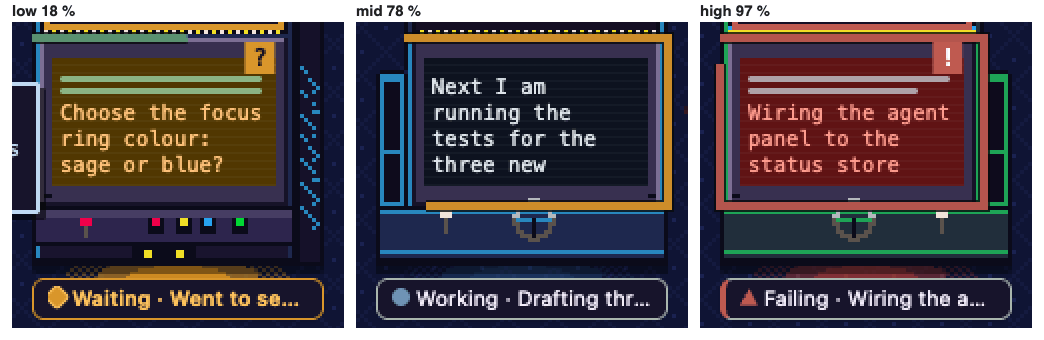
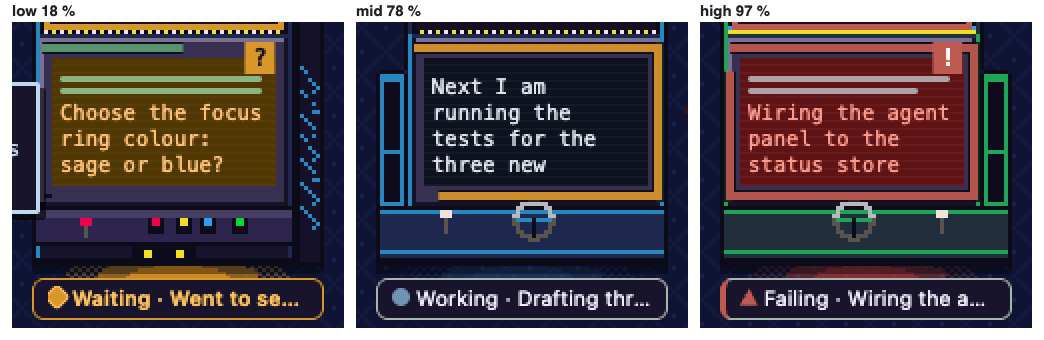
Real office context line: the arcade line fits the screen's frame band, inside the cabinet body, clear of the marquee and the control strip (review of #1299)

Changed region(s): [[0.6743, 0.0882, 0.9502, 0.6471], [0.3678, 0.0882, 0.6437, 0.6471], [0.0307, 0.0882, 0.1839, 0.1765]]

diff --git a/scripts/check-097-ctx-frame.js b/scripts/check-097-ctx-frame.js
@@ -67,11 +67,11 @@ module.exports = async (ctx) => {
     const rows = await js(`(()=>{const tok=n=>{const e=document.createElement('i');e.style.color='var('+n+')';document.body.appendChild(e);const c=getComputedStyle(e).color;e.remove();return c;};
       const T={ok:tok('--green'),warn:tok('--amber'),high:tok('--red')},R=e=>{const r=e.getBoundingClientRect();return [r.left,r.top,r.right,r.bottom]};
       return [...document.querySelectorAll('#stage .ro-screen[data-for]')].map(sc=>{const k=sc.dataset.for,sv=sc.querySelector(':scope > .ro-ctx'),r=sv&&sv.lastChild,kl=sv&&sv.firstChild,pl=document.querySelector('#stage .ro-plate[data-id='+JSON.stringify(k)+']'),
-        gl=sc.querySelector('.ro-glass'),scb=R(sc),inner=[...sc.querySelectorAll('.ro-glass, .ro-bezel')].map(e=>getComputedStyle(e).backgroundColor),txt=[...document.querySelectorAll('#stage .ro-stext[data-for='+JSON.stringify(k)+'] :is(.ro-sl,.ro-bars i)')].map(e=>getComputedStyle(e).color+'|'+getComputedStyle(e).backgroundColor),tx=document.querySelector('#stage .ro-stext[data-for='+JSON.stringify(k)+']'),cs=r&&getComputedStyle(r),shown=!!sv&&getComputedStyle(sv).display!=='none';
+        gl=sc.querySelector('.ro-glass'),scb=R(sc),cab=(e=>e?R(e):null)(document.querySelector('#stage .ro-cab[data-for='+JSON.stringify(k)+']')),mq=(e=>e?R(e):null)(document.querySelector('#stage .ro-marquee[data-for='+JSON.stringify(k)+']')),inner=[...sc.querySelectorAll('.ro-glass, .ro-bezel')].map(e=>getComputedStyle(e).backgroundColor),txt=[...document.querySelectorAll('#stage .ro-stext[data-for='+JSON.stringify(k)+'] :is(.ro-sl,.ro-bars i)')].map(e=>getComputedStyle(e).color+'|'+getComputedStyle(e).backgroundColor),tx=document.querySelector('#stage .ro-stext[data-for='+JSON.stringify(k)+']'),cs=r&&getComputedStyle(r),shown=!!sv&&getComputedStyle(sv).display!=='none';
         let ring=null;if(shown){const x=parseFloat(cs.x),y=parseFloat(cs.y),W=parseFloat(cs.width),Hh=parseFloat(cs.height),s=parseFloat(cs.strokeWidth),b=sv.getBoundingClientRect();
           ring={out:[b.left+x-s/2,b.top+y-s/2,b.left+x+W+s/2,b.top+y+Hh+s/2],inn:[b.left+x+s/2,b.top+y+s/2,b.left+x+W-s/2,b.top+y+Hh-s/2],sw:s,per:Math.round(2*(W+Hh)),len:r.getTotalLength?Math.round(r.getTotalLength()):0};}
         return {k,lounge:sc.classList.contains('ro-lmon'),has:!!sv,shown,lv:sv?sv.dataset.lv||'':'',dash:r?r.getAttribute('stroke-dasharray')||'':'',stroke:cs?cs.stroke:'',hidden:sv?sv.getAttribute('aria-hidden'):'',inGlass:!!(gl&&gl.querySelector('.ro-ctx')),
-          label:pl?pl.getAttribute('aria-label'):'',glass:R(gl),scb,inner,txt,text:tx?R(tx):null,ring,anim:r?r.getAnimations().length:0,ck:kl?{dash:kl.getAttribute('stroke-dasharray')||'',w:parseFloat(getComputedStyle(kl).strokeWidth),c:getComputedStyle(kl).stroke}:null,trans:cs?cs.transitionDuration:'',T};});})()`);
+          label:pl?pl.getAttribute('aria-label'):'',glass:R(gl),scb,cab,mq,inner,txt,text:tx?R(tx):null,ring,anim:r?r.getAnimations().length:0,ck:kl?{dash:kl.getAttribute('stroke-dasharray')||'',w:parseFloat(getComputedStyle(kl).strokeWidth),c:getComputedStyle(kl).stroke}:null,trans:cs?cs.transitionDuration:'',T};});})()`);
     const byId = new Map(rows.map((r) => [r.k, r]));
     const desks = rows.filter((r) => !r.lounge);
     assert.ok(desks.length >= 12, `${tag}: desks with a monitor (${desks.length})`);
@@ -101,8 +101,14 @@ module.exports = async (ctx) => {
       assert.ok(r.ring.sw >= 4, `${tag}: ${id}: the line is at least 4 px (${r.ring.sw})`);
       assert.ok(r.ck && r.ck.dash === r.dash && r.ck.w >= r.ring.sw + 2 && Math.max(...r.ck.c.match(/\d+/g).slice(0, 3).map(Number)) < 40, `${tag}: ${id}: a dark keyline at least 2 px wider lies under the line with the same dash (${JSON.stringify(r.ck)})`);
       if (world === 'arcade') {
-        /* the arcade's line lies on the cabinet's outer frame: the whole screen box (bezel, glass, text) is inside the line's inner edge, and no band colour is a colour used in the screen */
-        assert.ok(inside(r.scb, r.ring.inn), `${tag}: ${id}: the arcade line lies outside the whole screen (screen ${r.scb.map(Math.round)} ring inside ${r.ring.inn.map(Math.round)})`);
+        /* the arcade's line lies in the screen's frame band: its widest part (the keyline) is inside the screen box, which is inside the cabinet's body, clear of the marquee
+           (above) and of the control strip (below the screen box); the glass with its text is inside the line's inner edge; no band colour is a colour used inside the screen */
+        const rc = [(r.ring.out[0] + r.ring.inn[0]) / 2, (r.ring.out[1] + r.ring.inn[1]) / 2, (r.ring.out[2] + r.ring.inn[2]) / 2, (r.ring.out[3] + r.ring.inn[3]) / 2], kh = r.ck.w / 2;
+        const kout = [rc[0] - kh, rc[1] - kh, rc[2] + kh, rc[3] + kh], within = (b, a) => b[0] >= a[0] - 0.6 && b[1] >= a[1] - 0.6 && b[2] <= a[2] + 0.6 && b[3] <= a[3] + 0.6;
+        assert.ok(r.cab && within(kout, r.cab), `${tag}: ${id}: the arcade line is inside the cabinet's body (${kout.map(Math.round)} vs ${r.cab && r.cab.map(Math.round)})`);
+        assert.ok(within(kout, r.scb), `${tag}: ${id}: the arcade line is inside the screen's frame band, so above the control strip (${kout.map(Math.round)} vs screen ${r.scb.map(Math.round)})`);
+        assert.ok(!r.mq || kout[1] >= r.mq[3] - 0.6, `${tag}: ${id}: the arcade line is under the marquee (${kout[1]} vs ${r.mq && r.mq[3]})`);
+        assert.ok(inside(r.glass, r.ring.inn) && (!r.text || inside(r.text, r.ring.inn)), `${tag}: ${id}: the glass and its text are inside the arcade line's inner edge`);
         const used = new Set([...r.inner, ...r.txt.flatMap((x) => x.split('|'))]);
         assert.ok(!used.has(r.stroke), `${tag}: ${id}: the arcade band colour ${r.stroke} is not a colour used inside the screen`);
       }

diff --git a/src/renderer/realoffice/worlds/retro/world.css b/src/renderer/realoffice/worlds/retro/world.css
@@ -81,6 +81,6 @@
 .ro[data-world="retro"] .ro-plate.lounge .ro-l1{display:block;flex:none;max-width:55%;overflow:hidden;text-overflow:ellipsis;white-space:nowrap}
 .ro[data-world="retro"] .ro-plate.lounge .ro-role{display:none}
 .ro[data-world="retro"] .ro-plate.lounge .ro-l2{display:block;flex:1 1 auto;min-width:0;-webkit-line-clamp:unset}
-/* spec 097 FR-324 (review of #1297): the context line lies on the cabinet's own outer frame, just outside the screen box (the lavender bezel and the glass with its text bars are all inside it), never inside the screen where a green fill read as a third text bar; the svg is the whole screen box, the rect grows by one grid pixel each side */
-.ro[data-world="retro"] .ro-ctx rect{x:calc(-1px*var(--ro-g));y:calc(-1px*var(--ro-g));width:calc(var(--ro-cw,0px) + 2px*var(--ro-g));height:calc(var(--ro-ch,0px) + 2px*var(--ro-g));stroke-width:max(4px,calc(2px*var(--ro-g)))}
+/* spec 097 FR-324 (review of #1299): the arcade's line lies in the screen's own frame band, the 4 grid-pixel border between the cabinet body and the glass (the svg is that whole screen box): the line is 2 grid pixels (4 px at g=2) in the band's outer half and its keyline one px wider each side, so every pixel of both stays inside the band: inside the cabinet's body, under the marquee, above the control strip, and clear of the glass and its text bars (the band's inner half stays bare) */
+.ro[data-world="retro"] .ro-ctx rect{x:calc(1.5px*var(--ro-g));y:calc(1.5px*var(--ro-g));width:calc(var(--ro-cw,0px) - 3px*var(--ro-g));height:calc(var(--ro-ch,0px) - 3px*var(--ro-g));stroke-width:max(4px,calc(2px*var(--ro-g)))}
 .ro[data-world="retro"] .ro-ctx .ro-ck{stroke-width:calc(max(4px,2px*var(--ro-g)) + 2px)}

diff --git a/specs/097-real-office/spec.md b/specs/097-real-office/spec.md
@@ -1106,7 +1106,7 @@ Found in the security review of #1272, not caused by it. A tool name is chosen b
 
 - **FR-322** **A line round the frame.** In every desk's monitor frame (not the lounge's small monitors, which show no text, FR-247) a thin line fills clockwise from the top-left corner along the frame as the context fills: its length is the share of the frame's outline, so 50 % reaches the bottom-right corner and 100 % closes the outline. It lies on or beside the frame, never on the glass: it does not change the screen tint (FR-236), does not cover screen text, and is not clipped by the glass. An **unknown** context (including a window waiting for the next message) draws **no** line and no empty track, so it never reads as 0 %. A known 0 % draws no length either. Static: no animation, nothing changes under reduced motion or with Motion off.
 - **FR-323** **Band colours.** The line's colour is the band's: `ok` green (`var(--green)`), `warn` amber (`var(--amber)`), `high` red (`var(--red)`), the tokens the chat header's ring uses; theme tokens only, no literal colour in the line's rule. Colour is not the only cue: the length and the plate's accessible name (FR-325) say the same.
-- **FR-324** **Worlds.** Photo office and cave: the line is on the monitor's frame (Photo: the bezel; cave: the outer edge of the stone frame), 4 px, with a dark keyline 1 px wider each side under it (the same dash, a second `rect` made with the first), so it reads at 1x beside 10.5 px text and a red line round a red error screen, or an amber one round an amber needs-you screen, stays its own band (review of #1297). The coloured stroke lies on the frame, outside the glass; the keyline may touch the glass's outer pixel. Arcade: on the cabinet's own outer frame, just outside the screen box (the lavender bezel, the glass and its text bars are all inside the line), never inside the screen, where a green fill read as a third text bar (review of #1297); no band colour equals a colour used inside the screen (driver). The line is made once per desk, one `svg` with two `rect`s (keyline and line, pathLength 100, so the dash is the share), inside the desk's `.ro-screen`, aria-hidden, pointer-events none; each world's CSS only sets its inset and width. A desk's size change rewrites two custom properties; nothing is measured.
+- **FR-324** **Worlds.** Photo office and cave: the line is on the monitor's frame (Photo: the bezel; cave: the outer edge of the stone frame), 4 px, with a dark keyline 1 px wider each side under it (the same dash, a second `rect` made with the first), so it reads at 1x beside 10.5 px text and a red line round a red error screen, or an amber one round an amber needs-you screen, stays its own band (review of #1297). The coloured stroke lies on the frame, outside the glass; the keyline may touch the glass's outer pixel. Arcade: in the screen's own frame band (the 4 grid-pixel border between the cabinet body and the glass): the line is 2 grid pixels wide in the band's outer half with its keyline one px wider each side, so both lie inside the cabinet's body, under the marquee and above the control strip, and the band's inner half stays bare between the line and the glass, so a green fill never reads as a text bar (reviews of #1297 and #1299; the driver asserts each); no band colour equals a colour used inside the screen (driver). The line is made once per desk, one `svg` with two `rect`s (keyline and line, pathLength 100, so the dash is the share), inside the desk's `.ro-screen`, aria-hidden, pointer-events none; each world's CSS only sets its inset and width. A desk's size change rewrites two custom properties; nothing is measured.
 - **FR-325** **Accessible name, forced colours.** The plate's accessible name gains the context in the flat office's words, `, context 72 %`, before "Open chat panel." (nothing for an unknown context); the line is `aria-hidden`. Under `forced-colors: active` the line is drawn in the system colour `Highlight` (the band is then told by the name and the zoom, as the lights are off, FR-051); under `prefers-contrast: more` the line is unchanged.
 - **FR-326** **Cheap.** A context event of an agent whose figure changed (its whole percent or its band) updates its one line by attributes (`stroke-dasharray`, `data-lv`) and its plate's label text, through `DurbarRealOffice.ctx(id, pct, level)`, without a render, a node or a layout read; the full draw writes the same attributes. `check-office-ops` and `check-office-ops-real` rows (`readsPerLivePaint` 1, nodes per status 0) stay as they are.
 
